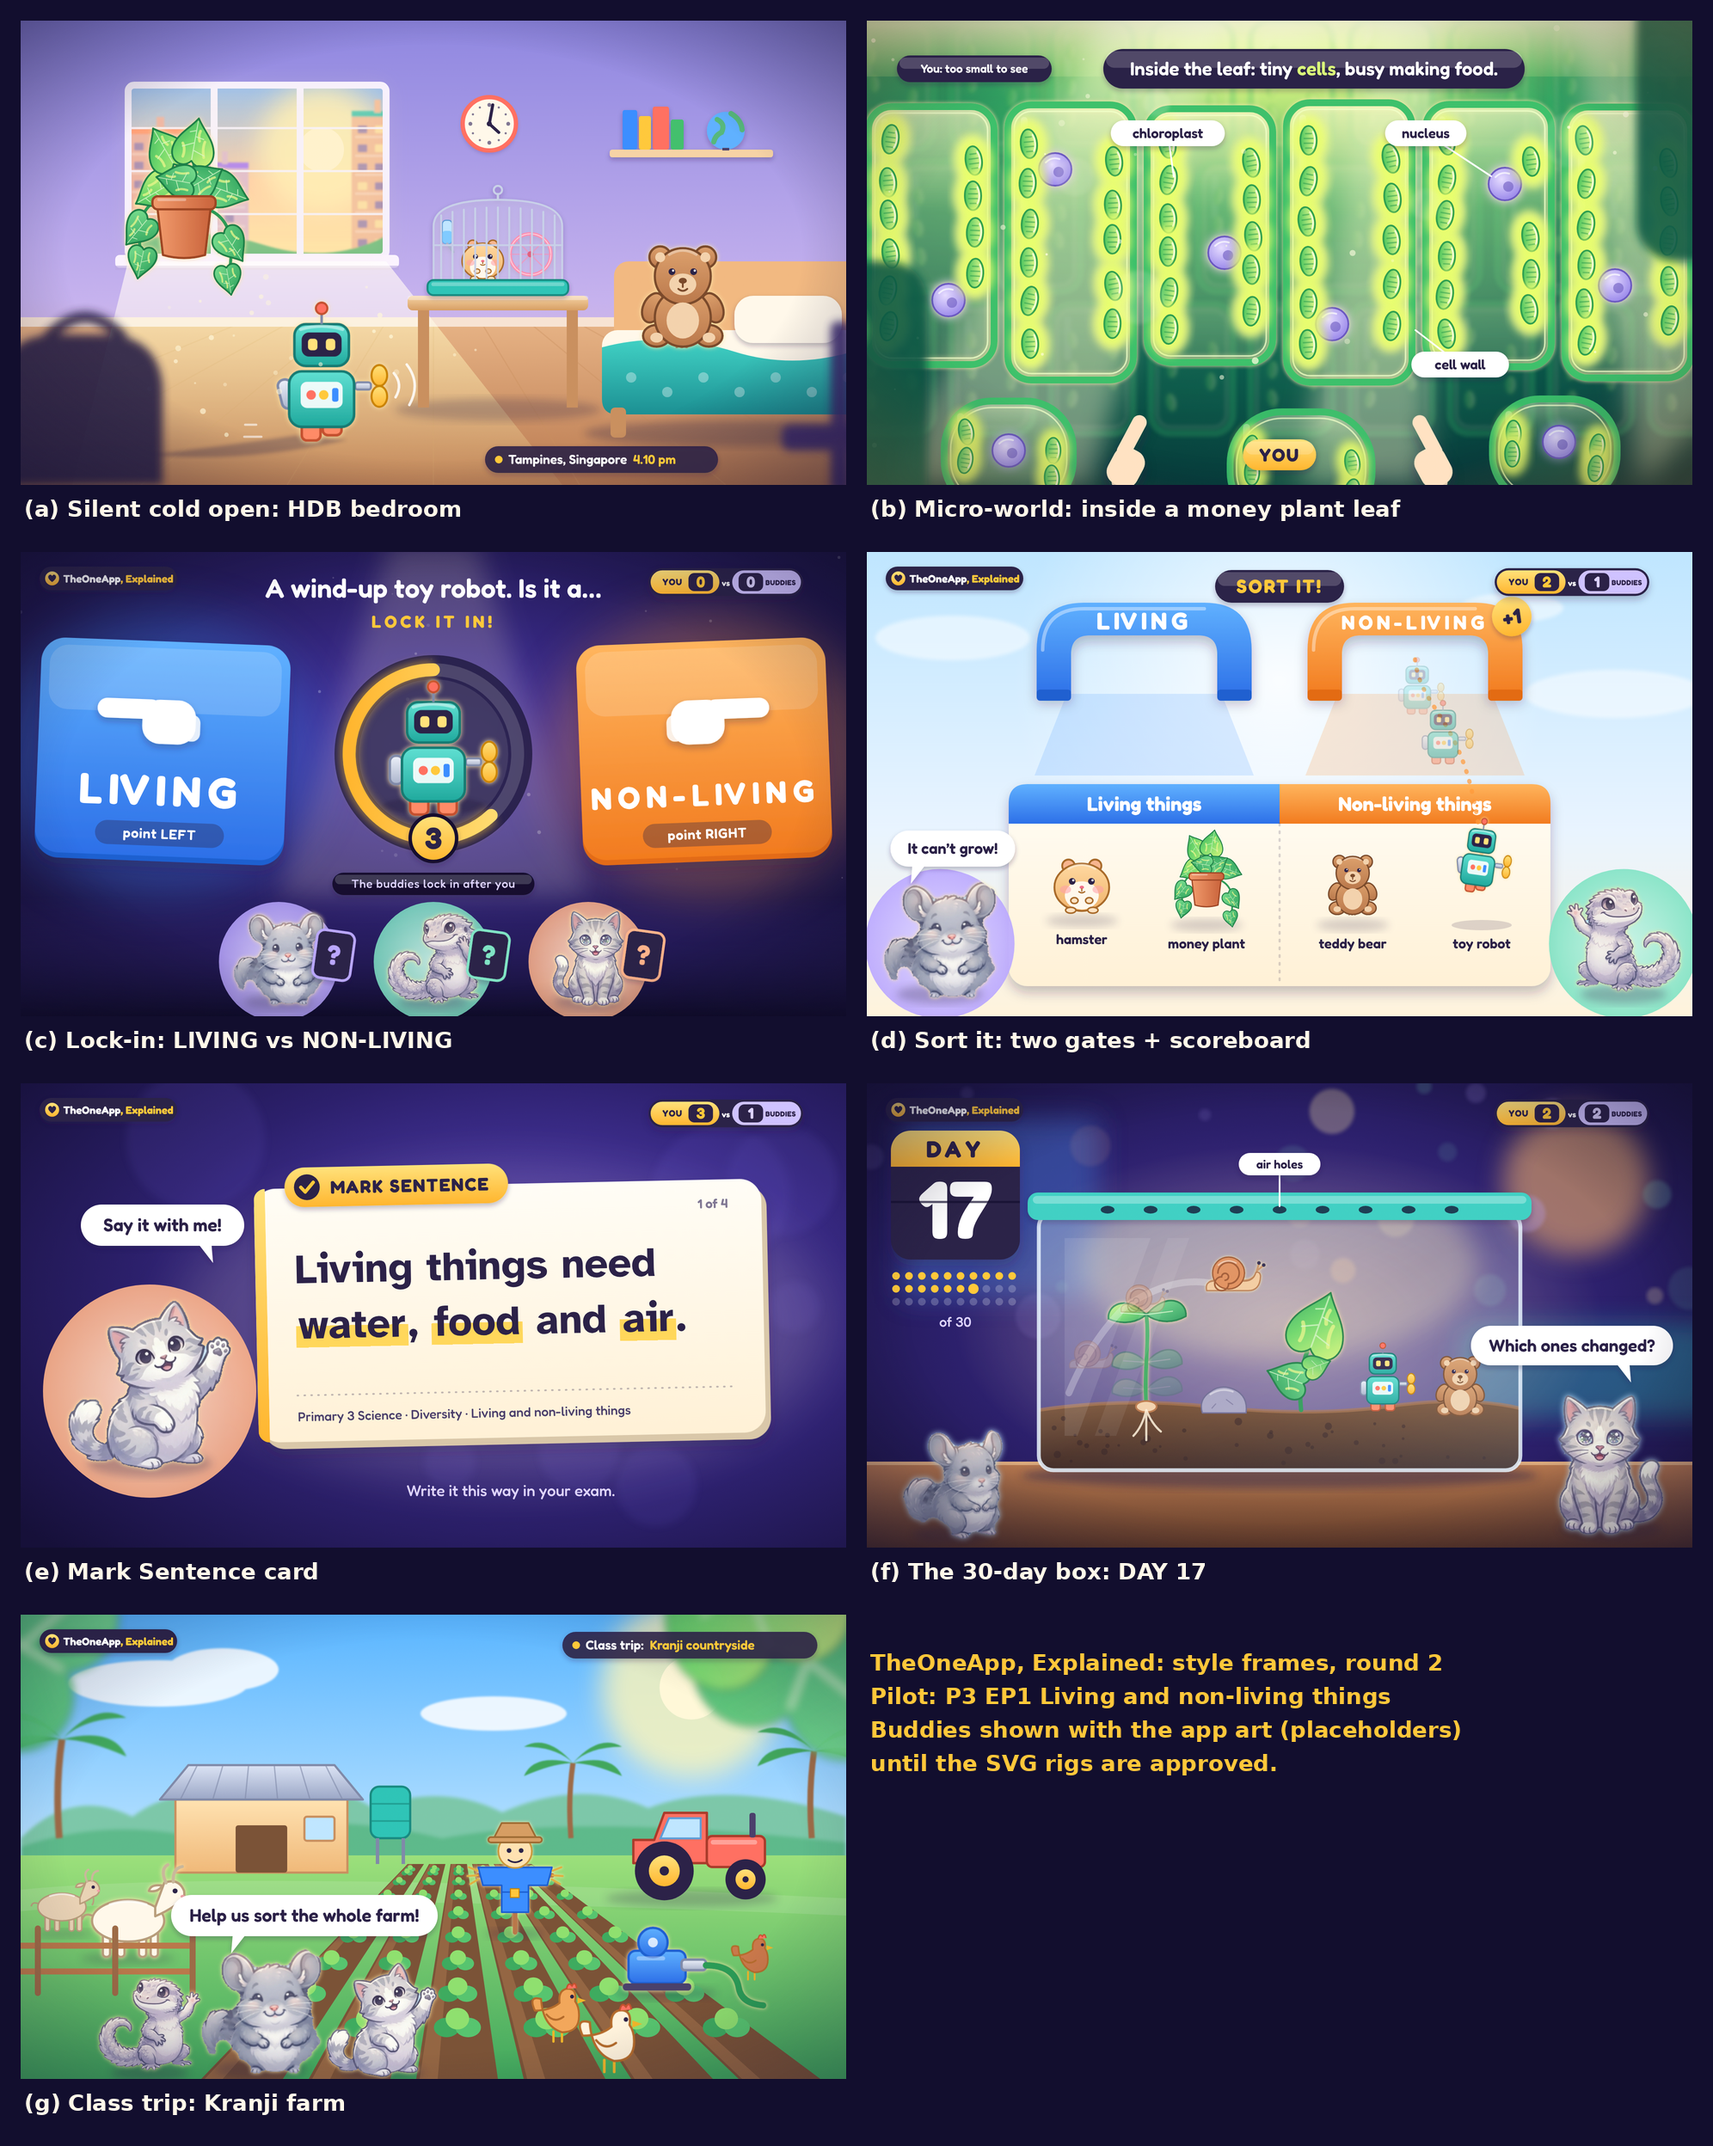
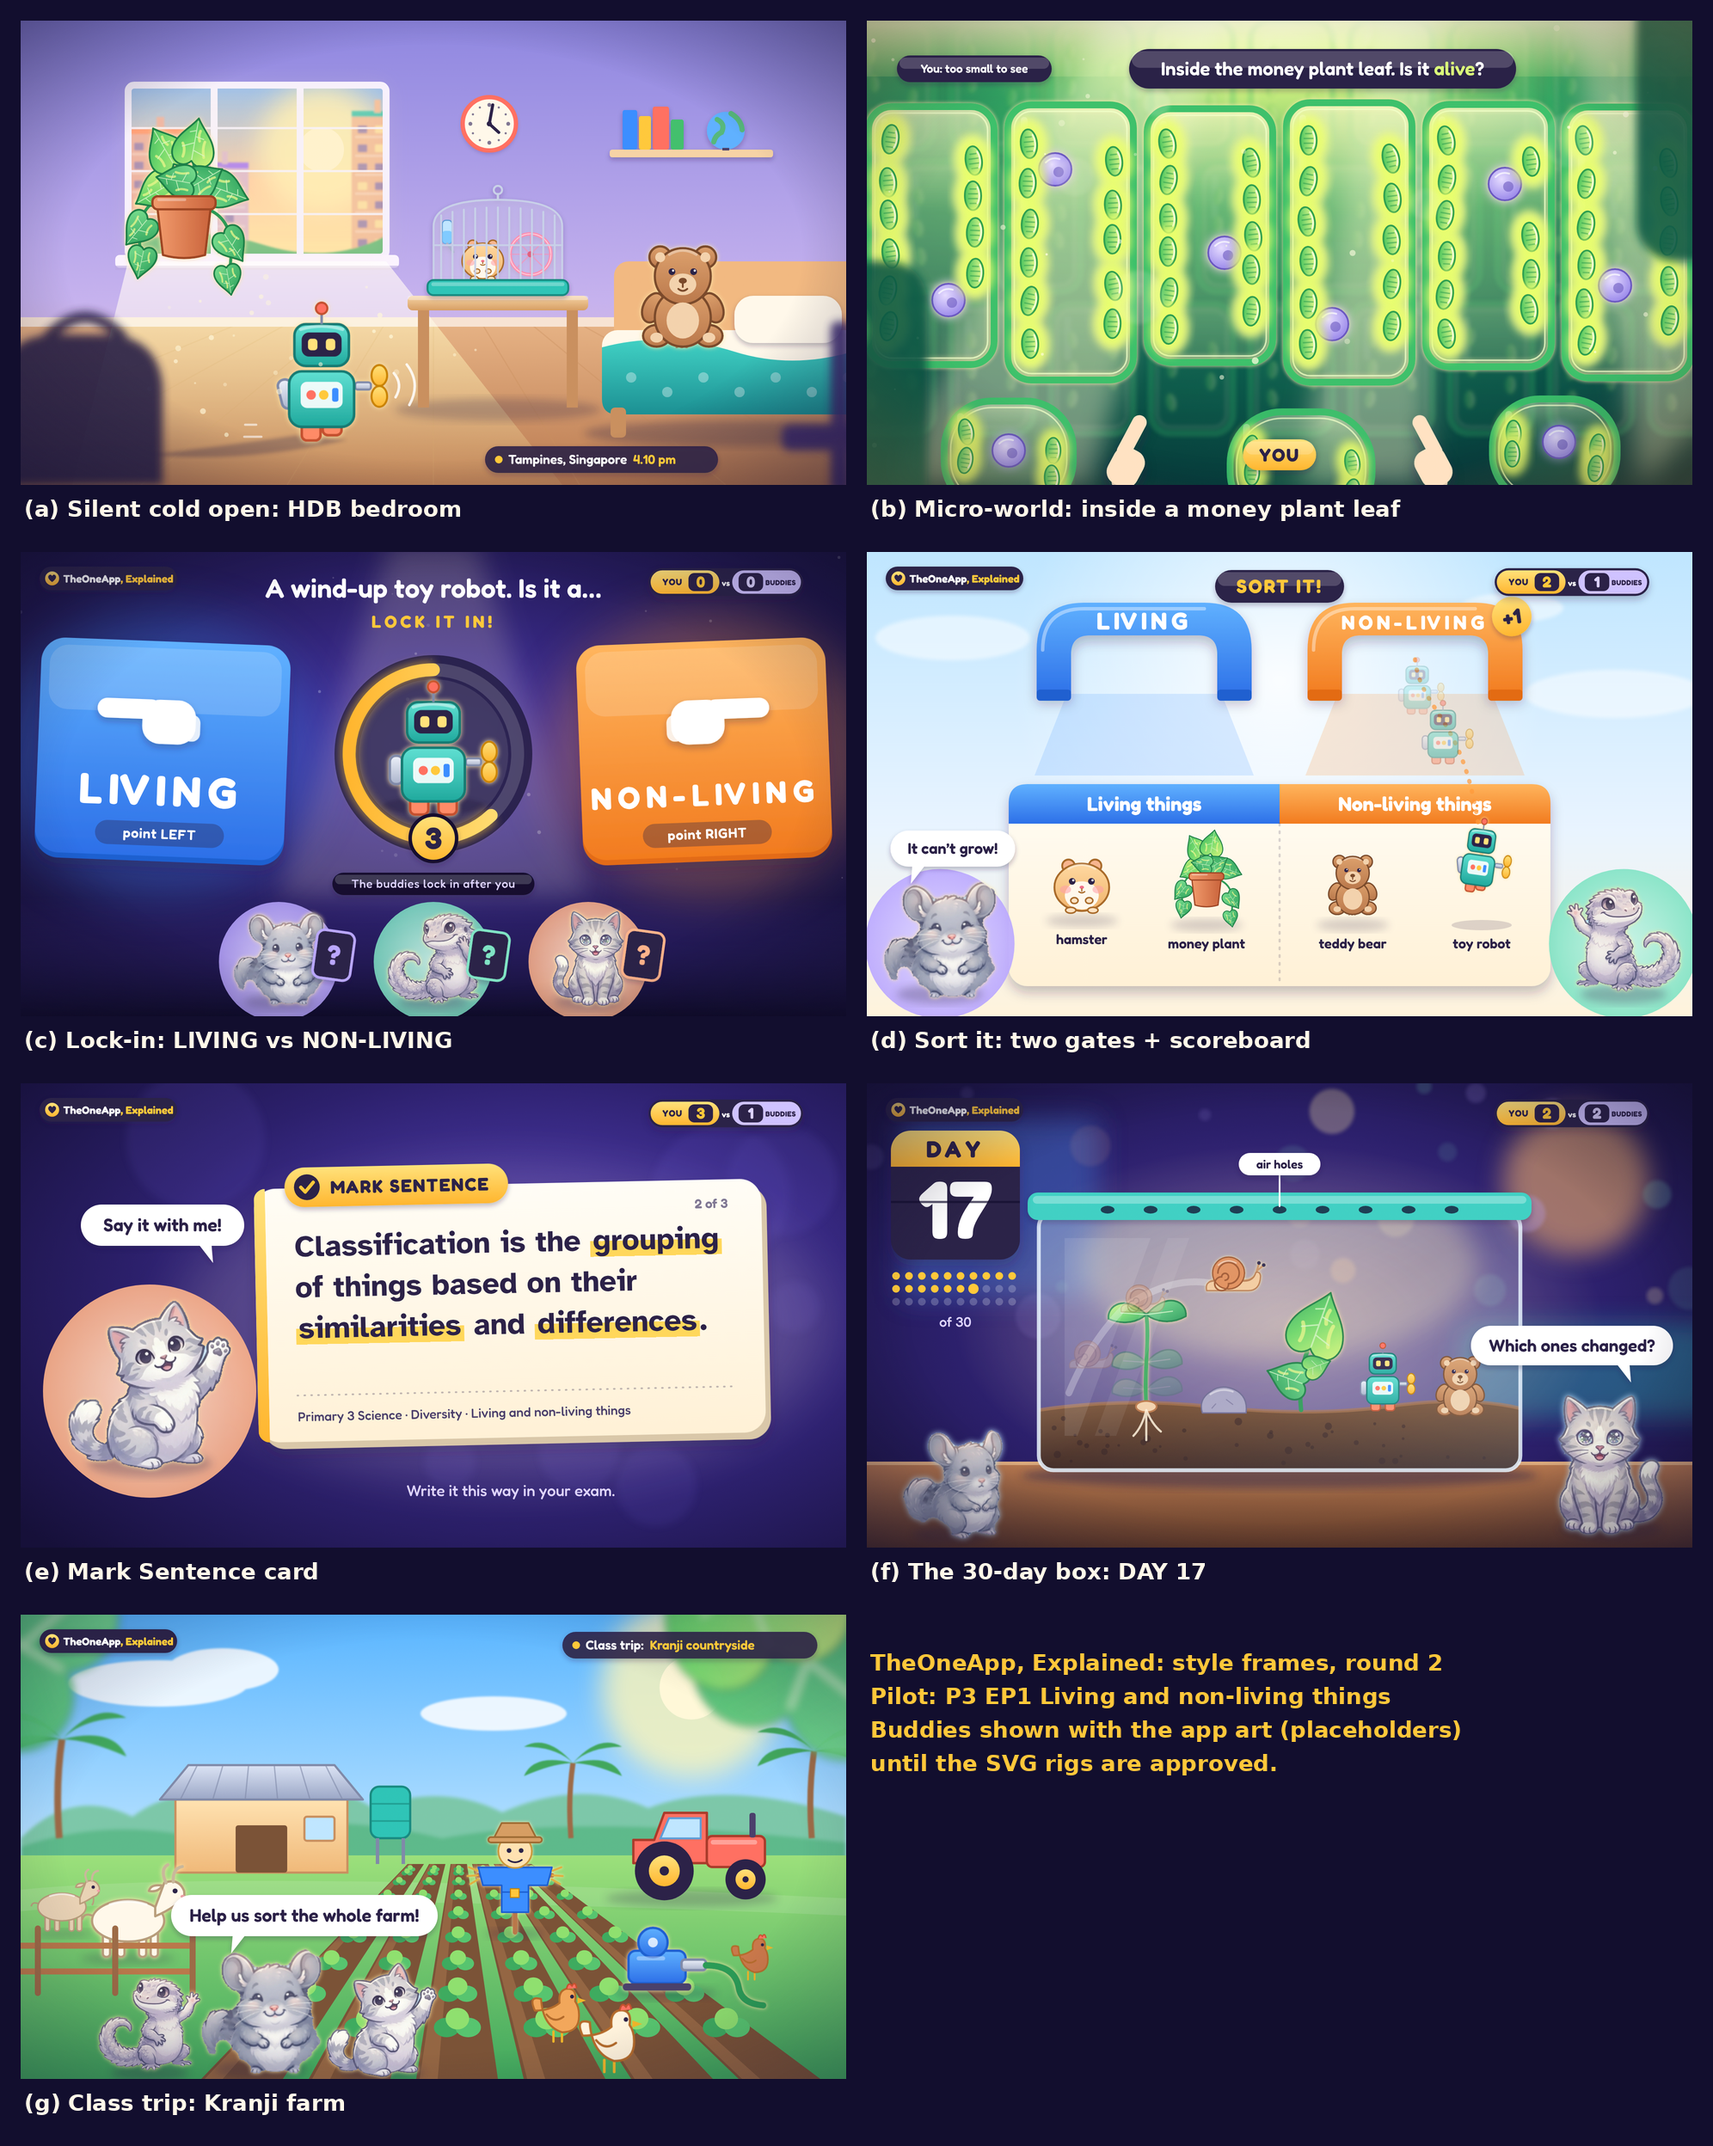
Explained revamp: art direction done (research, style guide, 7 style frames round 2)
Claude-Session: https://claude.ai/code/session_017vcscXTweEdXk7zMTDrzTD

diff --git a/production/workspace/explained2/STYLE_GUIDE.md b/production/workspace/explained2/STYLE_GUIDE.md
@@ -39,7 +39,7 @@ Blue vs orange was chosen so the two choices stay different for colour-blind vie
 | When | Cold open, dare, lock-ins, sorting, scoreboard, Mark Sentences, class trip, payoff | The first-person shrink journey (about 60 s) and any "inside it" moment |
 | Background | Day: sky `#BFE6FF` to cream. Stage: radial `#4A36B0` to `#120E2E` | One hue family per world, lit from one side: leaf `#FFFDE0` → `#D4F27E` → `#2FA060` → `#0B5C4C` → `#062F33`. Water worlds use `#0D3547` teal; soil worlds `#6B4630` → `#2E1C1F` |
 | Saturation, contrast | High; solid shapes; crisp shadows | Translucent layers (fills at 15 to 50% opacity), soft edges, glow |
-| UI on screen | Logo pill, scoreboard, labels, buddies | Only the YOU tag and hands, one scale pill ("You: too small to see"), one caption, at most three labels. No scoreboard, no logo |
+| UI on screen | Logo pill, scoreboard, labels, buddies | Only the YOU tag and hands, one scale pill ("You: too small to see"), one caption. No scoreboard, no logo. Part labels only at the level that teaches them (see 7.9) |
 | Motion | Snappy, bouncy | Slow drift; shots of 6 to 10 s; let it breathe |
 | Sound | Music and game sounds | Ambient pad, soft water and air sounds, no ticking |
 The switch between modes is always an event (section 10: the Shrink).
@@ -125,7 +125,9 @@ camera; otherwise the camera is still (the teacher's guide: stable unless moveme
 - A cream paper card, tilted about 1 degree, sun-yellow spine on the left, a "✓ MARK SENTENCE" tab, "1 of 4" counter, the
   sentence in Atkinson 700 with highlighter on the key words, and a footer "Primary 3 Science · Diversity · Living and non-living
   things". Dark violet stage behind. One buddy on their disc: "Say it with me!"
-- The sentence is the textbook's exact wording, word for word (frame e uses 1.14: "Living things need water, food and air.").
+- The sentence is the textbook's exact wording, word for word, and belongs to THIS episode (frame e uses EP1's 2.33: "Classification
+  is the grouping of things based on their similarities and differences."; "Living things need water, food and air" is EP2's).
+- Long sentences drop to 70 px; never below 64 px; never shortened to fit.
 - Words appear as Heart says them; highlights sweep in on the key word; then 1 s of stillness. The cards return as a strip at the end.
 
 ### 7.6 The day counter and the 30-day box (frame f)
@@ -145,6 +147,14 @@ camera; otherwise the camera is still (the teacher's guide: stable unless moveme
 - A white pill with the part's name, joined to the part by one plain line that touches it. No arrowheads, no numbers.
 - One kind of label per row (rule 10). Arrows only for motion, flow or direction.
 - At most three labels on screen at once; each appears as it is named.
+
+### 7.9 Level gate for the micro-world (nothing ahead of the syllabus)
+- The micro-world may SHOW more than the level teaches (it is drawn true), but it only NAMES what the episode's level teaches.
+- P3: the inside of a leaf is a beautiful place with no part labels and no "cell", "chloroplast", "nucleus" or "cell wall" on
+  screen or in the voice; the caption is a wondering question ("Inside the money plant leaf. Is it alive?"). It also does not say
+  the leaf is "making food" in EP1 (that belongs to a later episode).
+- P5/P6: the same world with up to three part labels (`SHOW_P5_LABELS = true` in `frames/frames.js`).
+- A caption never gives away the next lock-in or the next episode's Mark Sentence.
 
 ## 8. The buddies
 - Pip (chinchilla, lilac aura), Basil (lizard, mint aura), Momo (cat, peach aura): soft chibi, as in the app. Use the SVG rigs in
@@ -231,12 +241,14 @@ last ("Is Your Teddy Bear Alive? | Living and Non-living Things").
 
 ## 16. What changed from round 1 to round 2 (the self-critique)
 1. (b) was a view up at the plant from the soil; it is now truly inside the leaf: tall cells with cell walls, one nucleus each and
-   glowing chloroplasts, light from the top skin of the leaf. Label lines now touch their parts.
+   glowing chloroplasts, light from the top skin of the leaf. For P3 it carries no part labels and no "making food" caption
+   (coordinator's accuracy note; see 7.9); the labelled P5/P6 version is one switch away.
 2. (c) and (d): "LIVING" read as "LMNG" in tight Fredoka capitals; fixed with wide letter-spacing (now a typography rule). The
    buddies' note no longer overlaps their heads.
 3. (d): the robot fell outside its gate and over the header; it now comes through the NON-LIVING gate and lands in its own slot,
    with a "+1" coin. Pip gives the reason ("It can't grow!") instead of a filler line.
-4. (e): the card said "...air, food and water to stay alive"; it now uses the book's exact words. The tab icon no longer covers the text.
+4. (e): the card said "...air, food and water to stay alive", which is not the book's wording and is EP2's idea; it now shows EP1's
+   classification sentence, word for word. The tab icon no longer covers the text.
 5. (f): "air holes" was a floating label; it is now joined by a plain line.
 6. (g): the scarecrow's cross eyes became dots (nothing that looks hurt); the speech bubble no longer covers it.
 Still to do before production: swap the placeholder buddies for the approved rigs; a second polish pass on (b) (less haze, more
